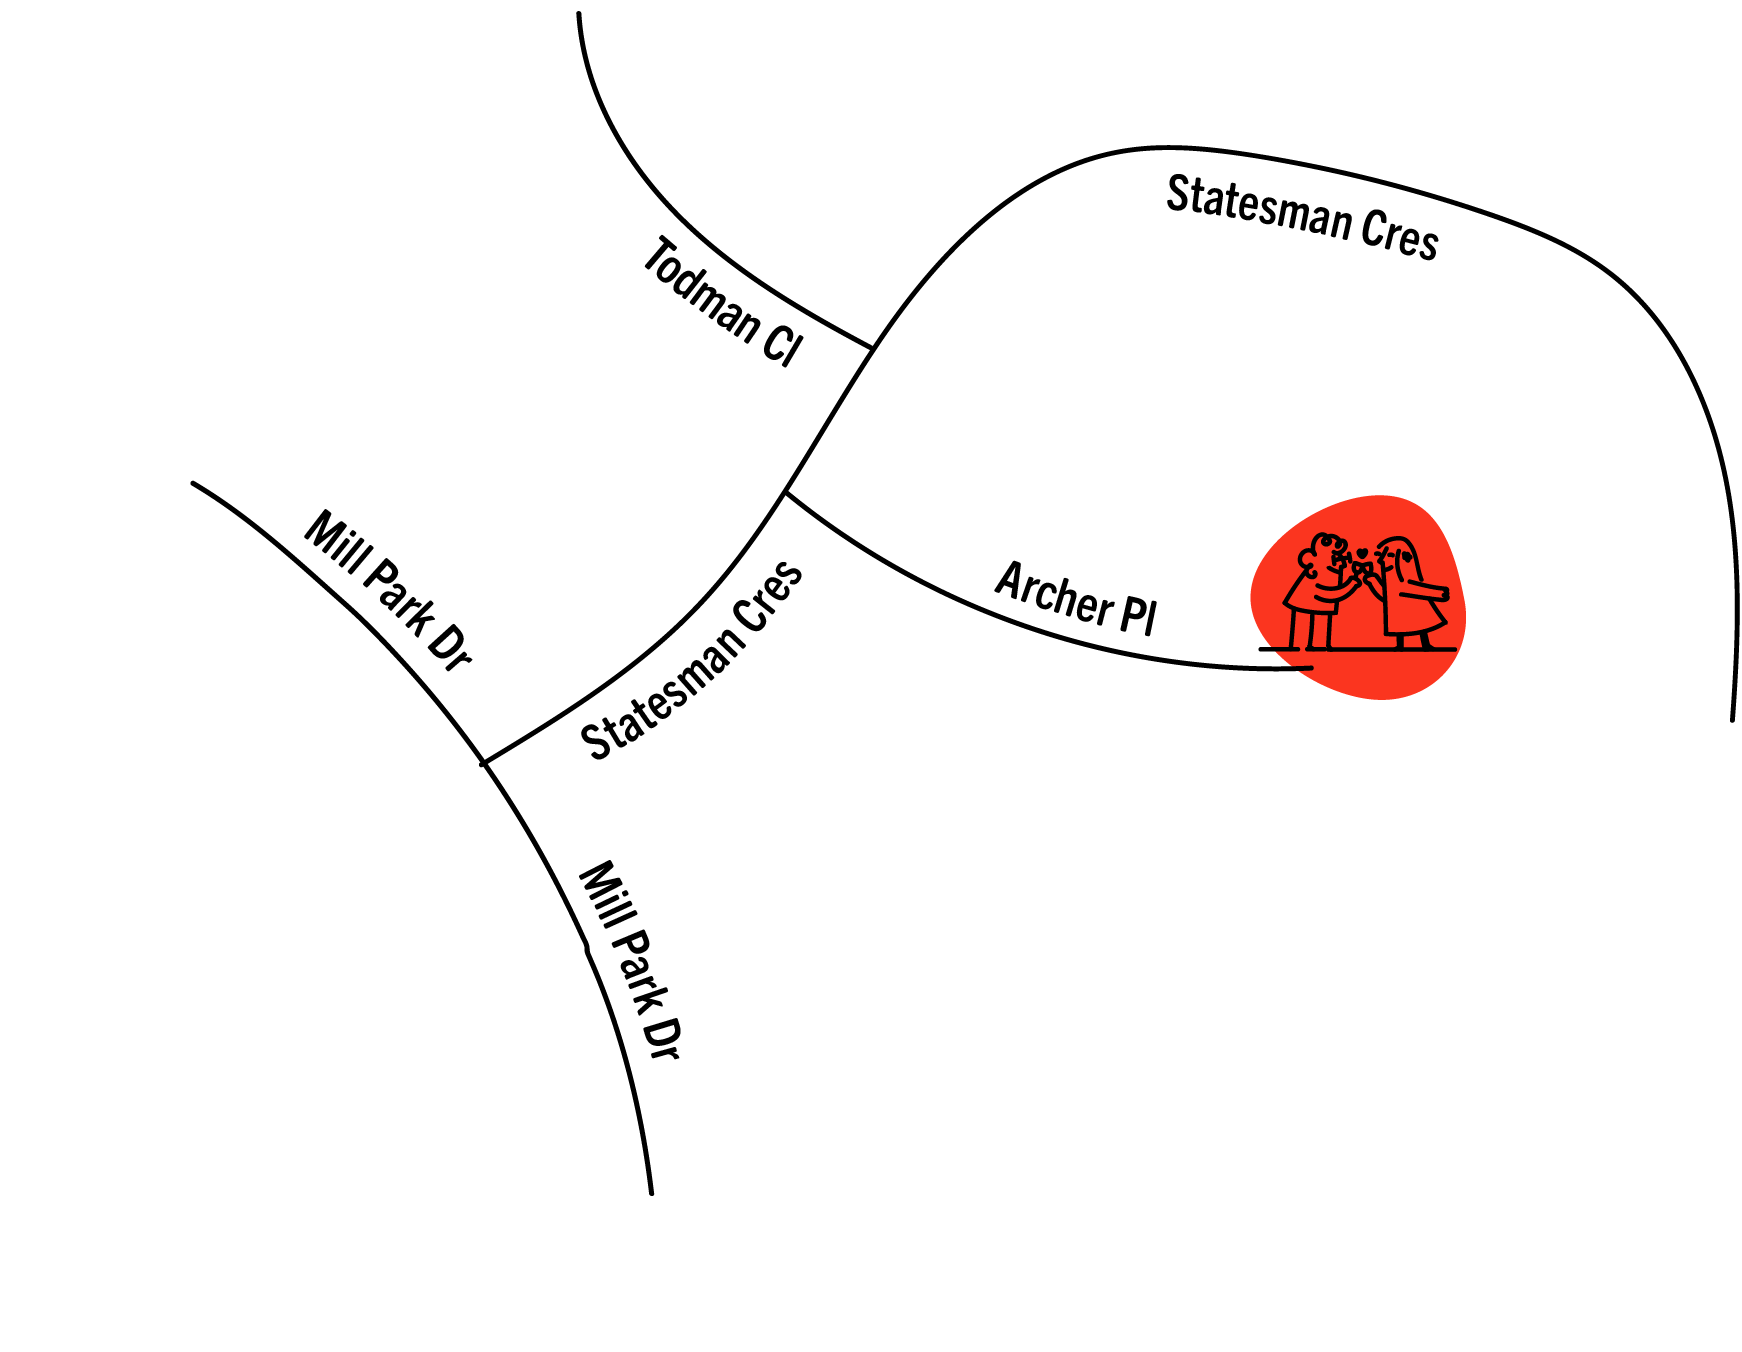
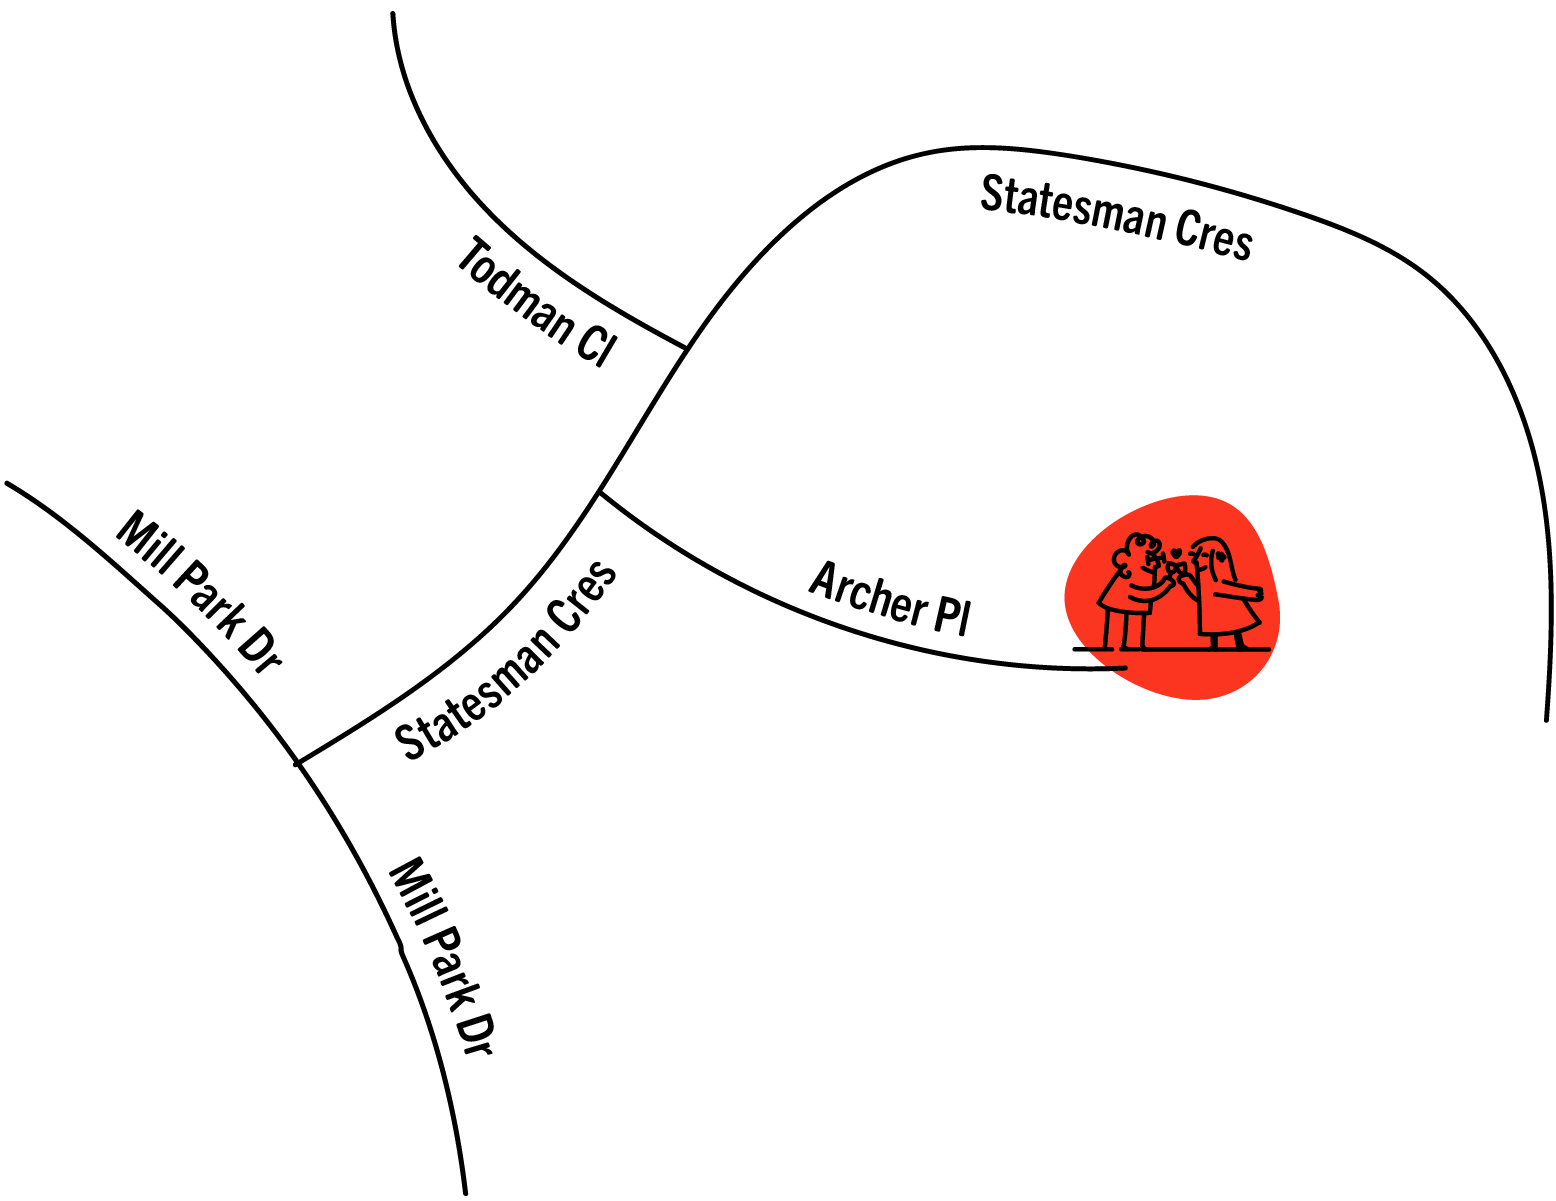
fix(email): keep wedding preview and delivery in sync
Use one builder and map asset for preview and sending, with regression coverage for matching output and development-only preview access. Update the map and parking copy.

diff --git a/app/api/send-update/route.ts b/app/api/send-update/route.ts
@@ -3,8 +3,7 @@ import { fetchMutation, fetchQuery } from "convex/nextjs";
 import { cookies } from "next/headers";
 import { api } from "@/convex/_generated/api";
 import { sendEmail } from "@/lib/email";
-import { formatGuestGreetingNames } from "@/lib/guest-display";
-import { defaultWeddingUpdateDraft, weddingUpdateEmail } from "@/lib/email-templates/wedding-update";
+import { buildWeddingUpdateEmail } from "@/lib/email-templates/wedding-update";
 import { getRequestIpAddress, getRequestLocation } from "@/lib/request-ip";
 
 export const runtime = "nodejs";
@@ -12,34 +11,46 @@ export const runtime = "nodejs";
 export async function POST(request: Request) {
   try {
     const token = (await cookies()).get("dash_session")?.value;
-    if (!token || !(await fetchQuery(api.auth.validateSession, { token })).valid) {
+    if (
+      !token ||
+      !(await fetchQuery(api.auth.validateSession, { token })).valid
+    ) {
       return NextResponse.json({ error: "Unauthorized" }, { status: 401 });
     }
     const payload = await request.json();
     const guests = await fetchQuery(api.guests.listGuests, { token });
     const guest = guests.find((entry) => entry._id === payload.guestId);
-    if (!guest) return NextResponse.json({ error: "Guest not found" }, { status: 404 });
-    const recipients = [...new Set([guest.email, guest.secondaryEmail]
-      .map((email) => email?.trim()).filter((email): email is string => Boolean(email)))];
+    if (!guest)
+      return NextResponse.json({ error: "Guest not found" }, { status: 404 });
+    const recipients = [
+      ...new Set(
+        [guest.email, guest.secondaryEmail]
+          .map((email) => email?.trim())
+          .filter((email): email is string => Boolean(email)),
+      ),
+    ];
     if (!recipients.length) {
-      return NextResponse.json({ error: "Guest has no email recipients." }, { status: 400 });
+      return NextResponse.json(
+        { error: "Guest has no email recipients." },
+        { status: 400 },
+      );
     }
-    const origin = new URL(request.url).origin;
-    const { html, text } = weddingUpdateEmail({
-      ...defaultWeddingUpdateDraft,
-      names: formatGuestGreetingNames(guest),
-      imageUrl: `${origin}/email/wedding-map.png`,
+    const email = buildWeddingUpdateEmail({
+      origin: new URL(request.url).origin,
+      guest,
     });
-    const result = await sendEmail({
-      from: '"Bel & Jon" <howdy@belandjon.com>',
-      to: recipients,
-      subject: defaultWeddingUpdateDraft.subject,
-      html,
-      text,
-    });
-    if (("error" in result && result.error) ||
-        ("rejected" in result && (result.rejected?.length ?? 0) > 0)) {
-      return NextResponse.json({ error: "Email provider did not accept all recipients. Check delivery before retrying." }, { status: 502 });
+    const result = await sendEmail({ ...email, to: recipients });
+    if (
+      ("error" in result && result.error) ||
+      ("rejected" in result && (result.rejected?.length ?? 0) > 0)
+    ) {
+      return NextResponse.json(
+        {
+          error:
+            "Email provider did not accept all recipients. Check delivery before retrying.",
+        },
+        { status: 502 },
+      );
     }
     await fetchMutation(api.guests.markUpdateSent, {
       token,
@@ -49,6 +60,11 @@ export async function POST(request: Request) {
     });
     return NextResponse.json({ ok: true });
   } catch (error) {
-    return NextResponse.json({ error: error instanceof Error ? error.message : "Failed to send update" }, { status: 500 });
+    return NextResponse.json(
+      {
+        error: error instanceof Error ? error.message : "Failed to send update",
+      },
+      { status: 500 },
+    );
   }
 }

diff --git a/lib/email-templates/wedding-update.ts b/lib/email-templates/wedding-update.ts
@@ -1,4 +1,6 @@
-export type WeddingUpdateDraft = {
+import { formatGuestGreetingNames } from "@/lib/guest-display";
+
+type WeddingUpdateDraft = {
   subject: string;
   previewText: string;
   names: string;
@@ -10,16 +12,16 @@ export type WeddingUpdateDraft = {
   imageAlt: string;
 };
 
-export const defaultWeddingUpdateDraft: WeddingUpdateDraft = {
+const defaultWeddingUpdateDraft: WeddingUpdateDraft = {
   subject: "See you on 21 Nov! A few wedding details",
   previewText: "11am, Saturday 21 November, 5 Archer Place, Mill Park.",
   names: "friends",
   heading: "",
   body: "Our wedding ceremony starts at **11am** on **Saturday 21 November** at **5 Archer Place, Mill Park 3082**. Here's a map to help you find us.",
   bodyBelowImage:
-    "Please park near the Statesman Crescent end of Archer Place or in nearby streets, leaving room in the cul-de-sac for the ceremony and party.\n\nWear whatever makes you feel good. We'll be mostly outdoors. Looking forward to seeing you!",
+    "You can park near Archer Place on Statesman Crescent or in nearby streets, leaving room in the cul-de-sac for the ceremony and party.\n\nWear whatever makes you feel good. We'll be mostly outdoors. Looking forward to seeing you!",
   signOff: "With love,",
-  imageUrl: "", // Supplied by the local preview; host the image when wiring up sending.
+  imageUrl: "", // Resolved by buildWeddingUpdateEmail for preview and delivery.
   imageAlt:
     "Wedding location map showing Archer Place, Statesman Crescent, Todman Close and Mill Park Drive",
 };
@@ -54,7 +56,7 @@ function imageUrl(value: string) {
     : webUrl(trimmed);
 }
 
-export function weddingUpdateEmail(draft: WeddingUpdateDraft) {
+function weddingUpdateEmail(draft: WeddingUpdateDraft) {
   const image = imageUrl(draft.imageUrl);
   const paragraphStyle = "margin:0 0 20px;font-size:16px;line-height:1.6;";
   const paragraphs = (body: string) =>
@@ -63,7 +65,11 @@ export function weddingUpdateEmail(draft: WeddingUpdateDraft) {
       .filter((paragraph) => paragraph.trim())
       .map(
         (paragraph) =>
-          `<p class="mobile-text" style="${paragraphStyle}">${escapeHtml(paragraph).replace(/\*\*(.+?)\*\*/g, "<strong>$1</strong>").replace(/\r?\n/g, "<br />")}</p>`,
+          `<p class="mobile-text" style="${paragraphStyle}">${escapeHtml(
+            paragraph,
+          )
+            .replace(/\*\*(.+?)\*\*/g, "<strong>$1</strong>")
+            .replace(/\r?\n/g, "<br />")}</p>`,
       )
       .join("\n");
   const text = [
@@ -118,4 +124,24 @@ export function weddingUpdateEmail(draft: WeddingUpdateDraft) {
 </html>`;
 
   return { html, text, previewText: draft.previewText };
+}
+
+/** The only entry point for both the preview and the outgoing update. */
+export function buildWeddingUpdateEmail({
+  origin,
+  guest = { name: "friends" },
+}: {
+  origin: string;
+  guest?: Parameters<typeof formatGuestGreetingNames>[0];
+}) {
+  const draft = {
+    ...defaultWeddingUpdateDraft,
+    names: formatGuestGreetingNames(guest),
+    imageUrl: new URL("/email/wedding-map.png", origin).href,
+  };
+  return {
+    from: '"Bel & Jon" <howdy@belandjon.com>',
+    subject: draft.subject,
+    ...weddingUpdateEmail(draft),
+  };
 }

diff --git a/app/(dashboard)/dash/email-preview/route.ts b/app/(dashboard)/dash/email-preview/route.ts
@@ -1,35 +1,28 @@
-import { readFile } from "node:fs/promises";
-import path from "node:path";
-import {
-  defaultWeddingUpdateDraft,
-  weddingUpdateEmail,
-} from "@/lib/email-templates/wedding-update";
+import { buildWeddingUpdateEmail } from "@/lib/email-templates/wedding-update";
 
 export async function GET(request: Request) {
   if (process.env.NODE_ENV !== "development") {
     return new Response(null, { status: 404 });
   }
 
-  const headers = {
-    "Cache-Control": "no-store",
-    "X-Robots-Tag": "noindex, nofollow",
-  };
   const url = new URL(request.url);
-  if (url.searchParams.get("image") === "map") {
-    const image = await readFile(
-      path.join(process.cwd(), "assets/email/wedding-map.png"),
-    );
-    return new Response(image, {
-      headers: { ...headers, "Content-Type": "image/png" },
-    });
-  }
-
-  url.search = "?image=map";
-  const { html } = weddingUpdateEmail({
-    ...defaultWeddingUpdateDraft,
-    imageUrl: url.href,
+  // Optional sample names let us preview the same personalisation as delivery.
+  const name = url.searchParams.get("name");
+  const email = buildWeddingUpdateEmail({
+    origin: url.origin,
+    guest: name
+      ? {
+          name,
+          plusOne: url.searchParams.get("plusOne") ?? undefined,
+          kids: url.searchParams.get("kids") ?? undefined,
+        }
+      : undefined,
   });
-  return new Response(html, {
-    headers: { ...headers, "Content-Type": "text/html; charset=utf-8" },
+  return new Response(email.html, {
+    headers: {
+      "Content-Type": "text/html; charset=utf-8",
+      "Cache-Control": "no-store",
+      "X-Robots-Tag": "noindex, nofollow",
+    },
   });
 }
